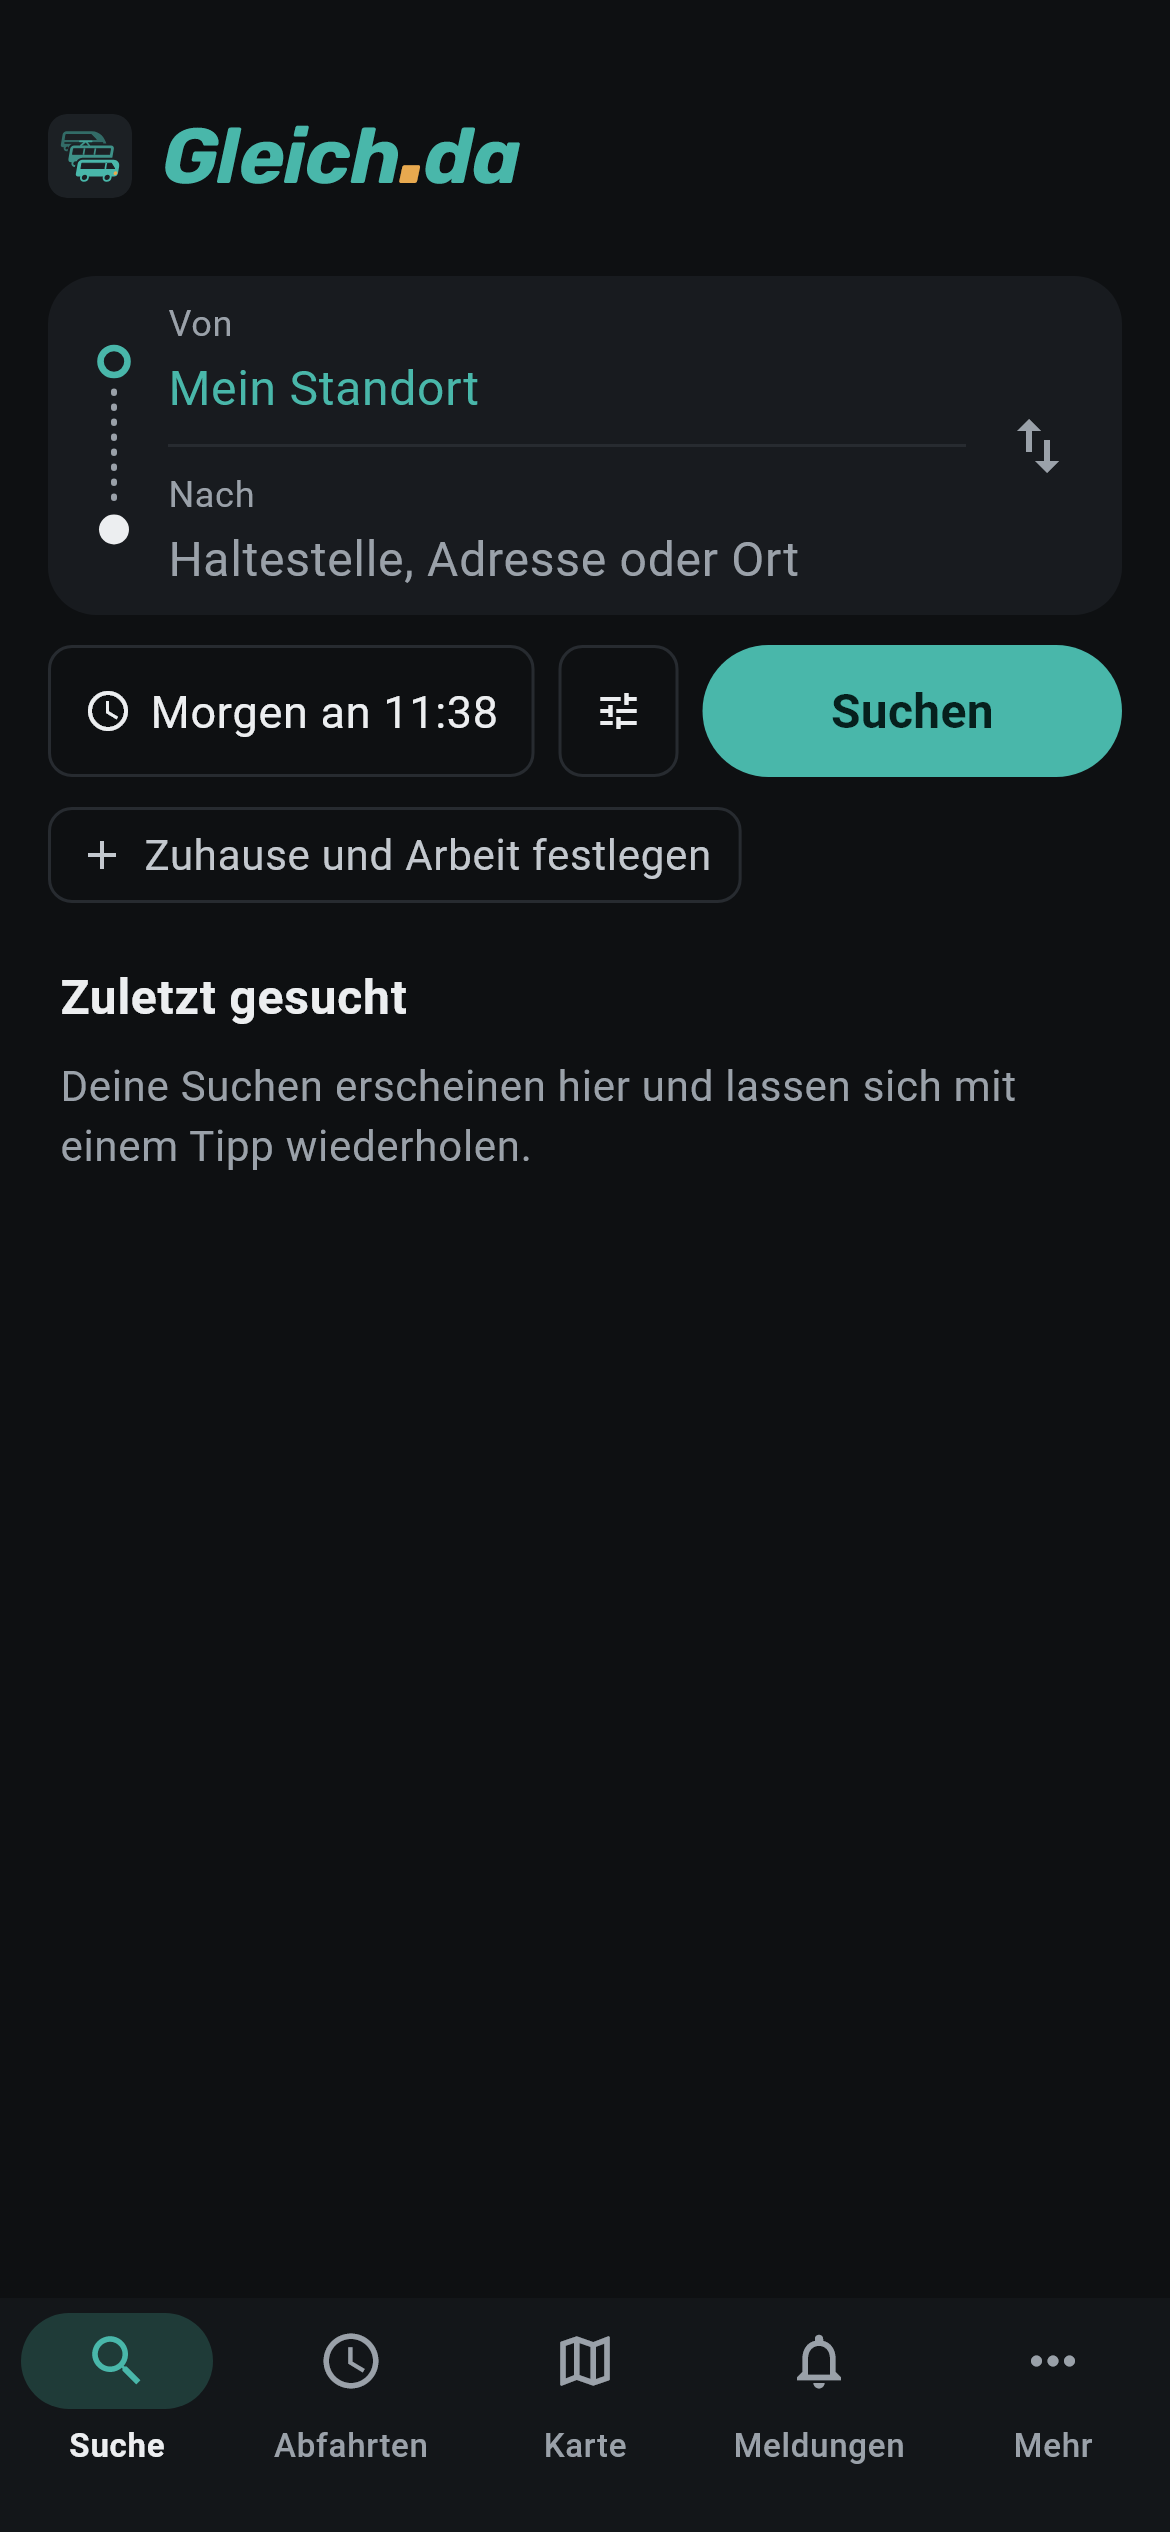
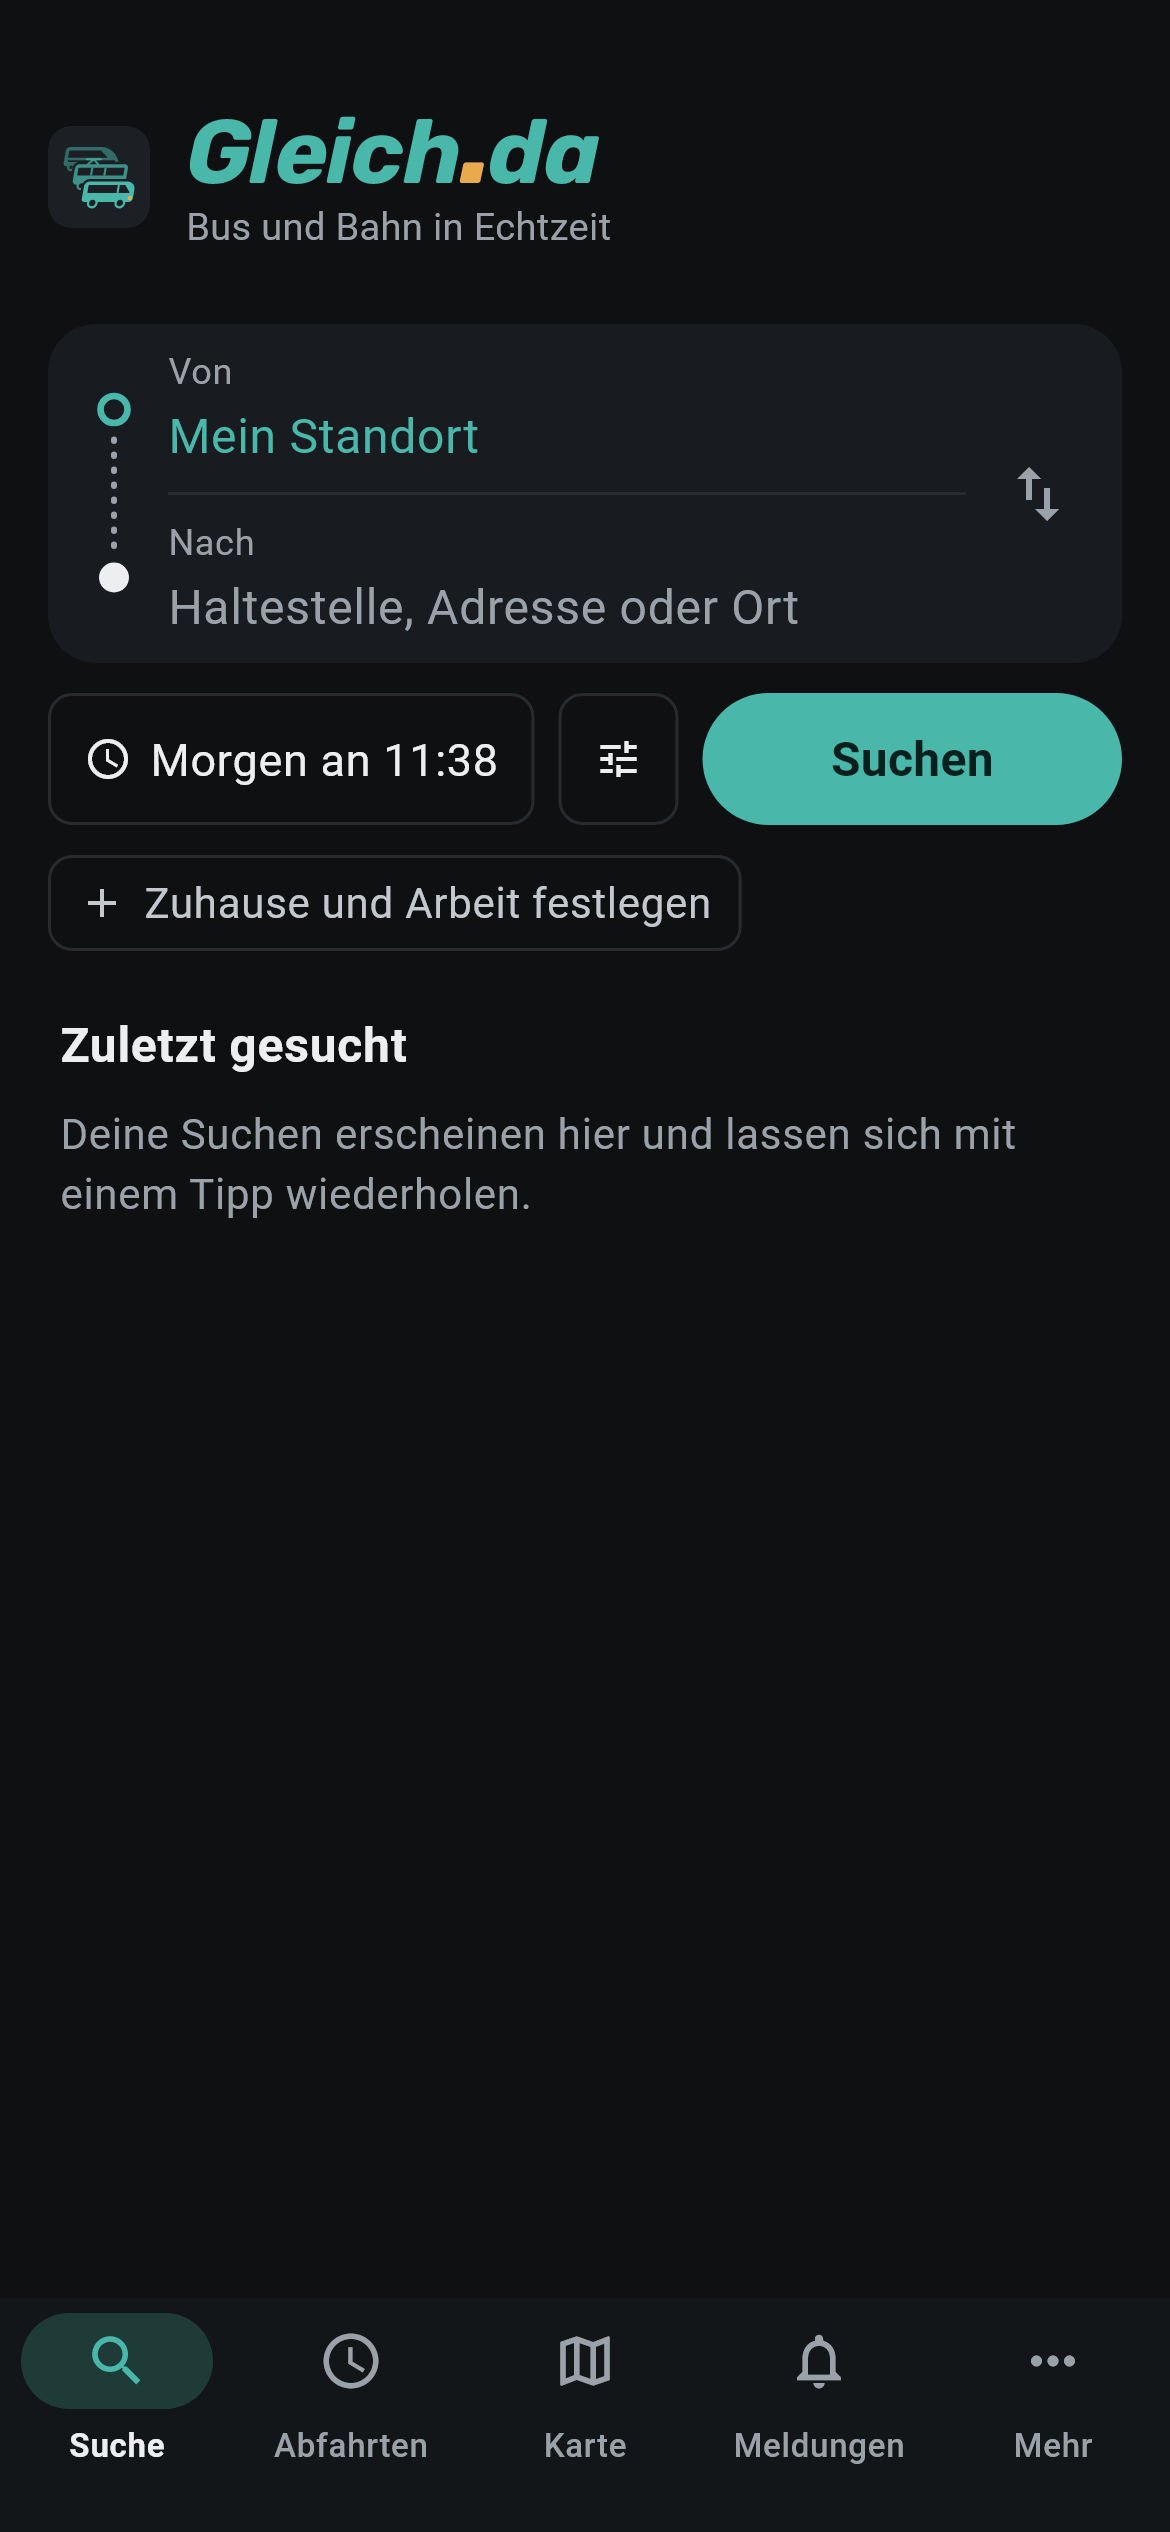
Rückmeldung wertet FormSubmit-Antwort richtig aus; Name und Zeichen abgehoben

diff --git a/lib/data/feedback.dart b/lib/data/feedback.dart
@@ -1,3 +1,5 @@
+import 'dart:convert';
+
 import 'package:dio/dio.dart';
 
 import 'transit_provider.dart' show ProviderException;
@@ -30,7 +32,7 @@ class FeedbackSender {
   Future<void> send({required FeedbackKind kind, required String text, String? reply, String? device}) async {
     if (!ready) throw const ProviderException('Das Formular ist noch nicht eingerichtet.');
     try {
-      final res = await _dio.post<Map<String, dynamic>>(
+      final res = await _dio.post<String>(
         'https://formsubmit.co/ajax/$feedbackEndpoint',
         data: {
           '_subject': 'Gleich.da – ${kind.subject}',
@@ -47,14 +49,26 @@ class FeedbackSender {
           'Accept': 'application/json',
           'Origin': 'https://github.com',
           'Referer': 'https://github.com/macpano/gleich.da',
-        }, contentType: Headers.jsonContentType),
+        }, contentType: Headers.jsonContentType, responseType: ResponseType.plain),
       );
-      final ok = res.data?['success'];
-      if (ok != true && ok != 'true') throw const ProviderException('Die Nachricht wurde nicht angenommen.');
+      // FormSubmit antwortet mit JSON, kennzeichnet es aber als text/html –
+      // deshalb als Text lesen (vorher: „Senden hat nicht geklappt“, obwohl
+      // die Nachricht angekommen war).
+      if (!feedbackAccepted(res.data)) throw const ProviderException('Die Nachricht wurde nicht angenommen.');
     } on DioException catch (e) {
       final offline = e.type == DioExceptionType.connectionError || e.type == DioExceptionType.connectionTimeout;
       throw ProviderException(offline ? 'Keine Internetverbindung.' : 'Senden hat nicht geklappt.',
           cause: e, offline: offline);
     }
+  }
+}
+
+/// Hat FormSubmit die Nachricht angenommen? `{"success":"true", …}`.
+bool feedbackAccepted(String? body) {
+  try {
+    final ok = (jsonDecode(body ?? '') as Map)['success'];
+    return ok == true || ok == 'true';
+  } catch (_) {
+    return false;
   }
 }

diff --git a/lib/ui/screens/home_screen.dart b/lib/ui/screens/home_screen.dart
@@ -96,9 +96,26 @@ class _PlaceShortcuts extends ConsumerWidget {
 class _Brand extends StatelessWidget {
   const _Brand();
 
+  /// Name und Zeichen dezent abgehoben: etwas größer, darunter leise die
+  /// Aufgabe der App – ohne Fläche, Schatten oder Verlauf.
   @override
-  Widget build(BuildContext context) =>
-      const SizedBox(height: 40, child: Row(children: [LogoMark(size: 28), SizedBox(width: 10), Wordmark(size: 26)]));
+  Widget build(BuildContext context) {
+    final c = context.c;
+    return Padding(
+      padding: const EdgeInsets.only(top: 4, bottom: 6),
+      child: Row(children: [
+        const LogoMark(size: 34),
+        const SizedBox(width: 12),
+        Column(mainAxisSize: MainAxisSize.min, crossAxisAlignment: CrossAxisAlignment.start, children: [
+          const Wordmark(size: 30),
+          const SizedBox(height: 3),
+          Text('Bus und Bahn in Echtzeit',
+              textScaler: TextScaler.noScaling,
+              style: TextStyle(fontSize: 12.5, letterSpacing: 0.2, color: c.muted, height: 1)),
+        ]),
+      ]),
+    );
+  }
 }
 
 // --- Suchfelder ---

diff --git a/test/logic_test.dart b/test/logic_test.dart
@@ -7,6 +7,7 @@ import 'package:flutter_test/flutter_test.dart';
 import 'package:gleichda/background.dart';
 import 'package:gleichda/data/db/database.dart';
 import 'package:gleichda/data/efa/efa_client.dart';
+import 'package:gleichda/data/feedback.dart' show feedbackAccepted;
 import 'package:gleichda/data/html_text.dart';
 import 'package:gleichda/data/repository.dart';
 import 'package:gleichda/data/transit_provider.dart';
@@ -51,6 +52,12 @@ void main() {
     expect(e(50).delayMinutes, 0); // 00:40:50 – angezeigt 00:40, also pünktlich
     expect(e(70).delayMinutes, 1);
     expect(e(-30).delayMinutes, -1); // 00:39:30
+  });
+
+  test('Rückmeldung: Antwort von FormSubmit (als text/html geliefert)', () {
+    expect(feedbackAccepted('{"success":"true","message":"The form was submitted successfully."}'), isTrue);
+    expect(feedbackAccepted('{"success":"false","message":"This form needs Activation."}'), isFalse);
+    expect(feedbackAccepted('<html>Fehler</html>'), isFalse);
   });
 
   group('Ersatzverkehr', () {

diff --git a/docs/abgleich.md b/docs/abgleich.md
@@ -335,3 +335,8 @@ Quelle: geteilter Chat (`docs/chat-verlauf.txt`), Klick-Prototyp, `docs/konzept.
 
 ## 0.4.12-vorab.11 (24.09.2026)
 - ✅ Rückmeldeformular freigeschaltet: FormSubmit-Kennung eingetragen (statt Adresse), Test über die Kennung angenommen
+
+## 0.4.13-vorab.1 (24.09.2026)
+- ✅ Rückmeldung meldete „Senden hat nicht geklappt“, obwohl die Nachricht ankam: FormSubmit schickt JSON als
+  `text/html`, die App erwartete JSON. Jetzt als Text gelesen und selbst ausgewertet (`feedbackAccepted`)
+- ✅ Name und Zeichen dezent abgehoben: Logo 34, Wortmarke 30, darunter leise „Bus und Bahn in Echtzeit“
